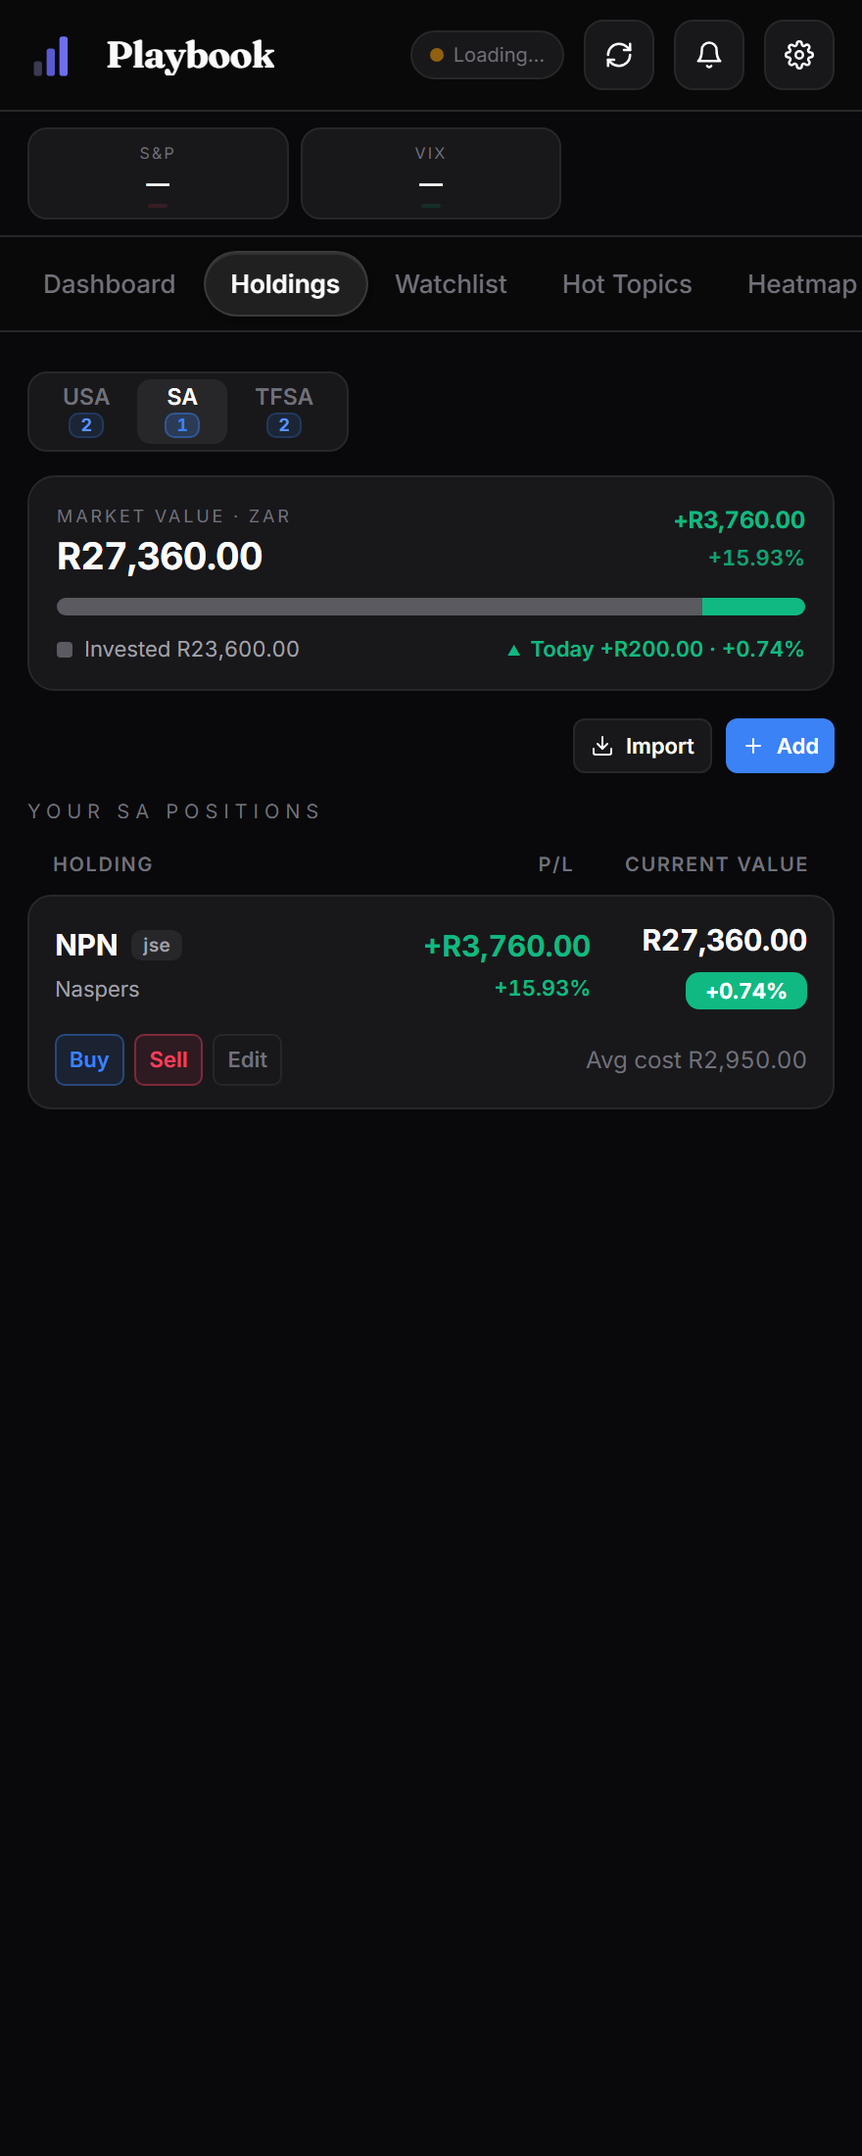
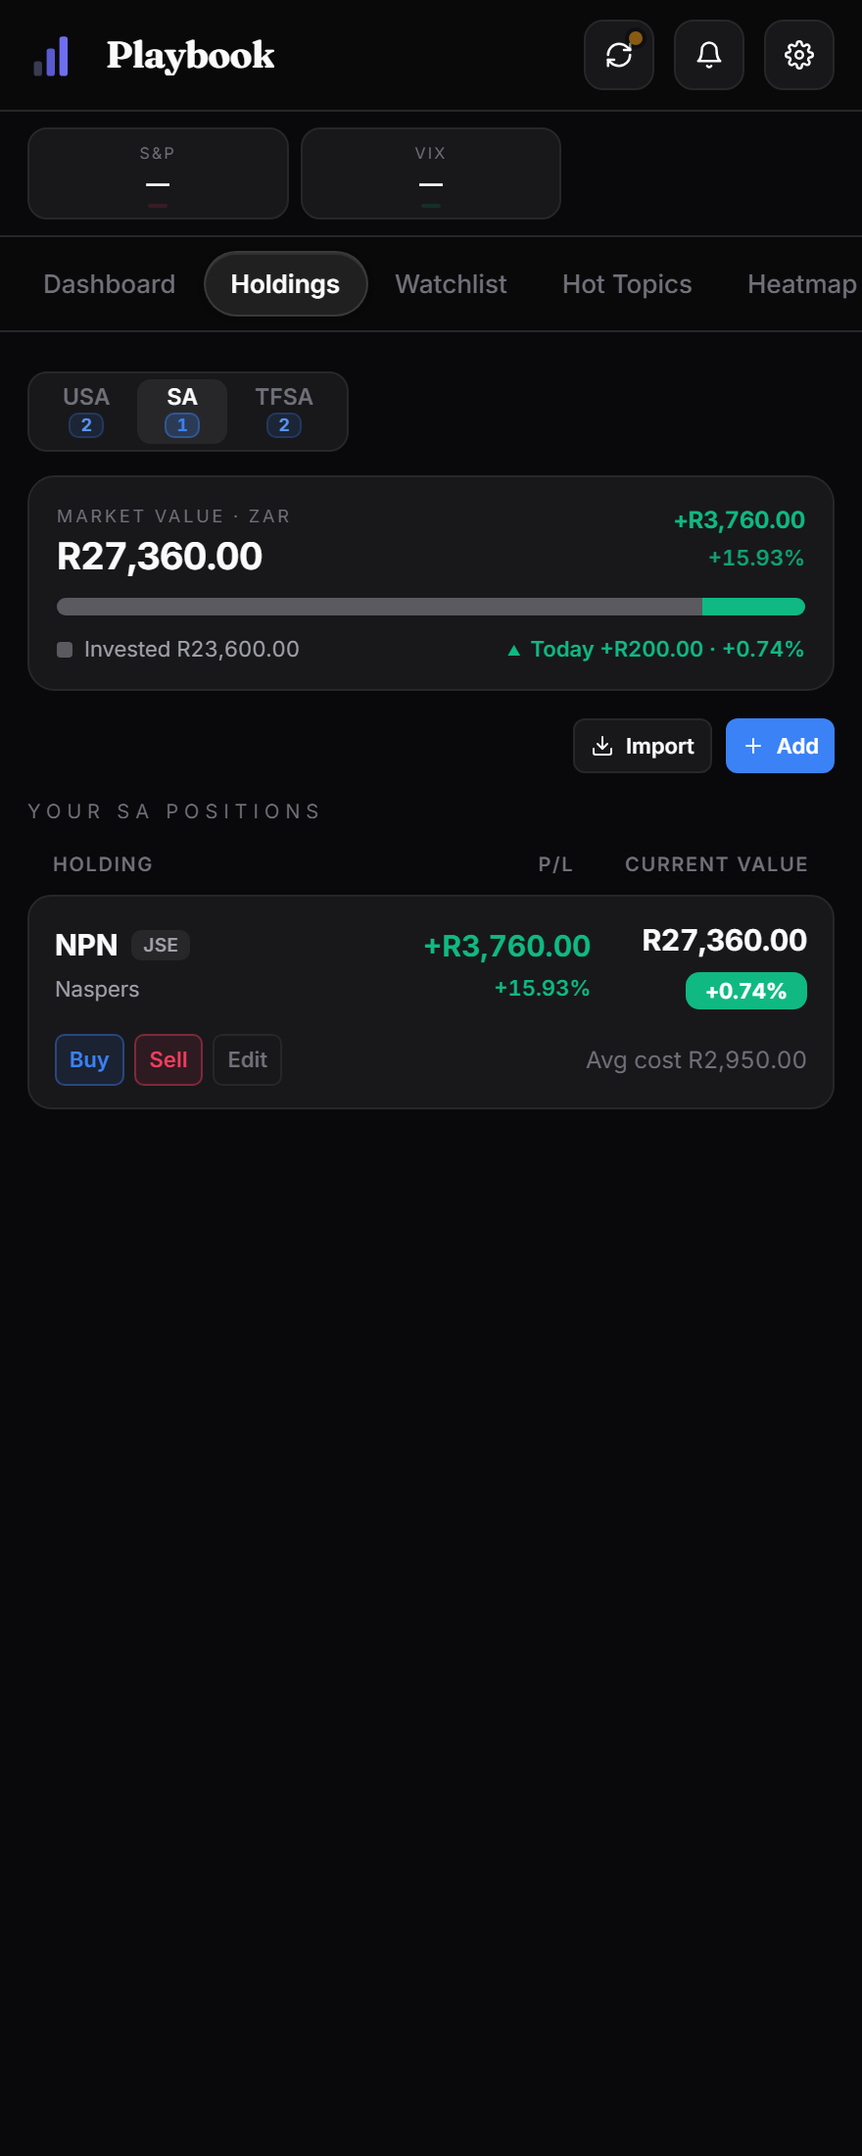
refactor(portfolio): transition portfolio slices to PBStore collections
This commit updates the portfolio management by replacing the use of `usePersistedState` for several slices (`positions`, `contributions`, `transactions`, `tfsaDeposits`) with centralized collections in `PBStore`. The change enhances state management efficiency and maintains existing functionality. Additionally, the service worker cache version is incremented to `v40`, and tests are updated to reflect these changes, ensuring that the new structure is properly validated.

diff --git a/app.js b/app.js
@@ -2181,7 +2181,8 @@ function usePushBackend(pushBackend, setPushBackend, alerts, notifPerm, toast) {
 // purchase-date FX resolution; toast is injected for user-facing feedback.
 // Raw setters are exposed so importData / cloud sync can replace state wholesale.
 function usePortfolio(fxRates, toast) {
-  const [positions, setPositions] = usePersistedState('pb.positions.v2', []);
+  const positions = PBStore.useCollection('positions');
+  const setPositions = useCallback(v => PBStore.setCollection('positions', v), []);
   const watchlist = PBStore.useCollection('watchlist');
   const setWatchlist = useCallback(v => PBStore.setCollection('watchlist', v), []);
   // User-defined watchlists. The built-in "Watchlist" list (id 'default') is
@@ -2193,15 +2194,18 @@ function usePortfolio(fxRates, toast) {
   const setWatchlistGroups = useCallback(v => PBStore.setCollection('watchlistGroups', v), []);
   const alerts = PBStore.useCollection('alerts');
   const setAlerts = useCallback(v => PBStore.setCollection('alerts', v), []);
-  const [contributions, setContributions] = usePersistedState('pb.contributions.v1', []);
-  const [transactions, setTransactions] = usePersistedState('pb.transactions.v1', []);
+  const contributions = PBStore.useCollection('contributions');
+  const setContributions = useCallback(v => PBStore.setCollection('contributions', v), []);
+  const transactions = PBStore.useCollection('transactions');
+  const setTransactions = useCallback(v => PBStore.setCollection('transactions', v), []);
   // TFSA deposit log — drives the annual (R46k) / lifetime (R500k) contribution
   // bars. Two kinds of entry live here: 'manual' (the user logs cash they put in,
   // e.g. a baseline for what they contributed before/outside the app) and
   // 'purchase' (auto-appended below whenever a TFSA holding is bought in-app, so
   // ongoing buys count toward the limits without manual logging). All entries are
   // editable/removable so the user can correct double-counts.
-  const [tfsaDeposits, setTfsaDeposits] = usePersistedState('pb.tfsa.deposits.v1', []);
+  const tfsaDeposits = PBStore.useCollection('tfsaDeposits');
+  const setTfsaDeposits = useCallback(v => PBStore.setCollection('tfsaDeposits', v), []);
   // Background-resolved sectors for holdings the static map can't classify,
   // keyed "MARKET:TICKER" → { sector, industry, at }. Persisted so the dashboard
   // allocation stays accurate across reloads without re-fetching.
@@ -2683,6 +2687,12 @@ const PORTFOLIO_SCHEMA = [
   { name: 'alerts',          key: 'pb.alerts.v2',          default: [] },
   { name: 'sectorCache',     key: 'pb.sectorCache.v1',     default: {} },
   { name: 'sectorWeights',   key: 'pb.sectorWeights.v1',   default: {} },
+  // Money slices (Increment 3b): same mechanism, all four arrays. Mutator bodies
+  // in usePortfolio are unchanged — they call the setter wrappers over setCollection.
+  { name: 'positions',       key: 'pb.positions.v2',       default: [] },
+  { name: 'transactions',    key: 'pb.transactions.v1',    default: [] },
+  { name: 'contributions',   key: 'pb.contributions.v1',   default: [] },
+  { name: 'tfsaDeposits',    key: 'pb.tfsa.deposits.v1',   default: [] },
 ];
 PBStore.configureCollections({ schema: PORTFOLIO_SCHEMA, storage: LS });
 // Dashboard always stays available so the nav can never be emptied entirely.

diff --git a/sw.js b/sw.js
@@ -1,5 +1,5 @@
 // ─── Playbook Service Worker ─────────────────────────────────────────────────
-const CACHE_NAME   = 'playbook-shell-v39';
+const CACHE_NAME   = 'playbook-shell-v40';
 const CDN_CACHE    = 'playbook-cdn-v1';
 
 const SHELL_ASSETS = [

diff --git a/docs/superpowers/plans/2026-06-29-phase-3-increment-3b-money-store.md b/docs/superpowers/plans/2026-06-29-phase-3-increment-3b-money-store.md
@@ -1,0 +1,189 @@
+# Phase 3 Increment 3b — Money portfolio slices → PBStore — Implementation Plan
+
+> **For agentic workers:** REQUIRED SUB-SKILL: Use superpowers:executing-plans (inline; no subagents per Jan's token-saving directive). Steps use checkbox (`- [ ]`) syntax for tracking.
+
+**Goal:** Move the 4 money `usePortfolio` slices (`positions`, `transactions`, `contributions`, `tfsaDeposits`) off `usePersistedState` into the existing `portfolio` collections slice on `PBStore`, behavior-identical — completing the slice migration begun in 3a.
+
+**Architecture:** Reuse the 3a `configureCollections`/`setCollection`/`useCollection` mechanism unchanged. Append 4 entries to `PORTFOLIO_SCHEMA`; replace the 4 slice declarations in `usePortfolio` with `useCollection` reads + `useCallback`-stable setter wrappers. Every mutator body and the startup dedup effect stay unchanged.
+
+**Tech Stack:** Vanilla ES (no build step), React 18 UMD, `useSyncExternalStore`, `node:test`, headless-Chrome verify harnesses.
+
+## Global Constraints
+
+- **No `pb-store.js` change.** The collections mechanism already exists + is unit-tested from 3a. Do not modify it.
+- **Mutator bodies stay byte-for-byte unchanged** — only the 4 slice declarations + 4 schema lines change in `app.js`. No money formula is edited (those live in `pb-core.js`).
+- **Preserve C4 as-is:** `addPosition`'s final `toast(positions.find(...) ? … : …)` keeps reading the pre-update closure. Do NOT "fix" it here.
+- **Persistence byte-identical:** all 4 keys are durable (none in `BACKUP_SKIP`); the injected `LS` adapter keeps each on its own `pb.X.vN` key with the same backup-notify.
+- **This session does NOT commit/push/merge.** Jan does that. Where a step says "leave for Jan," stop short of `git commit`. Run all verifications regardless.
+- **Test runner:** no npm script; `node backend/test/<file>.test.mjs`. app.js ships CRLF; the Edit tool normalizes CRLF so `\n`-based edits match.
+
+---
+
+### Task 1: Update anti-drift guards (RED)
+
+**Files:**
+- Test: `backend/test/store.test.mjs` — modify the 3a guard at "anti-drift: migrated non-money slices…" and replace the "money slices stay usePersistedState (3b out of scope)" guard.
+
+**Interfaces:**
+- Consumes: `appSrc` (the `app.js` source string already read at the top of the file).
+- Produces: guards that fail until Task 2 migrates the 4 money slices.
+
+- [ ] **Step 1: Broaden the "migrated" guard + replace the out-of-scope guard**
+
+In `backend/test/store.test.mjs`, change the migrated-slices guard to include the 4 money keys:
+
+```js
+test('anti-drift: migrated portfolio slices no longer use usePersistedState', () => {
+  for (const k of ['pb.watchlist.v2','pb.watchlistGroups.v1','pb.alerts.v2',
+    'pb.sectorCache.v1','pb.sectorWeights.v1',
+    'pb.positions.v2','pb.transactions.v1','pb.contributions.v1','pb.tfsa.deposits.v1']) {
+    const re = new RegExp("usePersistedState\\('" + k.replace(/\./g, '\\.') + "'");
+    assert.ok(!re.test(appSrc), `${k} should be migrated off usePersistedState into PBStore`);
+  }
+});
+```
+
+Replace the entire `test('anti-drift: money slices stay usePersistedState (3b out of scope)', …)` block with a schema-membership guard:
+
+```js
+test('anti-drift: money slices are registered in PORTFOLIO_SCHEMA', () => {
+  for (const k of ['pb.positions.v2','pb.transactions.v1','pb.contributions.v1','pb.tfsa.deposits.v1']) {
+    const re = new RegExp("key:\\s*'" + k.replace(/\./g, '\\.') + "'");
+    assert.ok(re.test(appSrc), `${k} must be a PORTFOLIO_SCHEMA entry after 3b`);
+  }
+});
+```
+
+(The `pb.fxRates.v1`-stays-usePersistedState guard is left as-is — fxRates remains out of scope.)
+
+- [ ] **Step 2: Run to verify the migrated guard fails**
+
+Run: `node backend/test/store.test.mjs 2>&1 | grep -E "migrated portfolio|registered in PORTFOLIO"`
+Expected: `✖ anti-drift: migrated portfolio slices no longer use usePersistedState` (the 4 money keys still match `usePersistedState`); the schema-membership guard also FAILS (keys not yet in `PORTFOLIO_SCHEMA`).
+
+---
+
+### Task 2: Migrate the 4 money slices + schema + SW bump (GREEN)
+
+**Files:**
+- Modify: `app.js` — money slice decls (`2184`, `2196`, `2197`, `2204`); `PORTFOLIO_SCHEMA` (append 4 entries after the 3a entries)
+- Modify: `sw.js` (cache version bump)
+- Test: `backend/test/store.test.mjs` (guards from Task 1); money node suites; browser smokes
+
+**Interfaces:**
+- Consumes: `PBStore.useCollection`, `PBStore.setCollection`, `PORTFOLIO_SCHEMA` (all from 3a).
+- Produces: `usePortfolio` returns the same names (`positions`/`setPositions`/`transactions`/`setTransactions`/`contributions`/`setContributions`/`tfsaDeposits`/`setTfsaDeposits` + all mutators), now store-backed. No consumer signature changes.
+
+- [ ] **Step 1: Migrate the 4 declarations in `usePortfolio`**
+
+In `app.js`, replace line 2184:
+```js
+  const [positions, setPositions] = usePersistedState('pb.positions.v2', []);
+```
+with:
+```js
+  const positions = PBStore.useCollection('positions');
+  const setPositions = useCallback(v => PBStore.setCollection('positions', v), []);
+```
+
+Replace line 2196 (keep the preceding comment block intact):
+```js
+  const [contributions, setContributions] = usePersistedState('pb.contributions.v1', []);
+```
+with:
+```js
+  const contributions = PBStore.useCollection('contributions');
+  const setContributions = useCallback(v => PBStore.setCollection('contributions', v), []);
+```
+
+Replace line 2197:
+```js
+  const [transactions, setTransactions] = usePersistedState('pb.transactions.v1', []);
+```
+with:
+```js
+  const transactions = PBStore.useCollection('transactions');
+  const setTransactions = useCallback(v => PBStore.setCollection('transactions', v), []);
+```
+
+Replace line 2204 (keep the preceding comment block intact):
+```js
+  const [tfsaDeposits, setTfsaDeposits] = usePersistedState('pb.tfsa.deposits.v1', []);
+```
+with:
+```js
+  const tfsaDeposits = PBStore.useCollection('tfsaDeposits');
+  const setTfsaDeposits = useCallback(v => PBStore.setCollection('tfsaDeposits', v), []);
+```
+
+Leave every mutator body (`addPosition`, `importPositions`, `sellPosition`, `updatePosition`, `removePosition(s)`, `addContribution`, `removeContribution`, `importContributions`, `addTfsaDeposit`, `updateTfsaDeposit`, `removeTfsaDeposit(s)`) and the startup dedup `useEffect` UNCHANGED — they call these wrappers.
+
+- [ ] **Step 2: Append the 4 money entries to `PORTFOLIO_SCHEMA`**
+
+In `app.js`, in the `PORTFOLIO_SCHEMA` array (added in 3a, just after `PBStore.configureSettings(...)`), add the 4 money entries after the `sectorWeights` line, before the closing `];`:
+
+```js
+  { name: 'positions',     key: 'pb.positions.v2',     default: [] },
+  { name: 'transactions',  key: 'pb.transactions.v1',  default: [] },
+  { name: 'contributions', key: 'pb.contributions.v1', default: [] },
+  { name: 'tfsaDeposits',  key: 'pb.tfsa.deposits.v1', default: [] },
+```
+
+- [ ] **Step 3: Verify app.js parses + anti-drift guards pass**
+
+Run: `node --check app.js`
+Expected: no output.
+
+Run: `node backend/test/store.test.mjs 2>&1 | grep -E "migrated portfolio|registered in PORTFOLIO|tests |pass |fail "`
+Expected: both guards PASS; `fail 0`.
+
+- [ ] **Step 4: Run the money correctness gate + full node suite**
+
+Run the money suites explicitly:
+`node backend/test/money-math.test.mjs && node backend/test/cost-basis.test.mjs && node backend/test/import-matching.test.mjs && node backend/test/ee-ocr-parse.test.mjs`
+Expected: all PASS unchanged (no formula changed).
+
+Run the full suite:
+`for f in backend/test/*.test.mjs; do node "$f" >/dev/null 2>&1 && echo "PASS $(basename $f)" || echo "FAIL $(basename $f)"; done`
+Expected: every suite PASS, no `FAIL` lines.
+
+- [ ] **Step 5: Bump the SW cache version**
+
+In `sw.js`, change `playbook-shell-v39` → `playbook-shell-v40` (single occurrence).
+Run: `node --check sw.js`
+Expected: no output.
+
+- [ ] **Step 6: Browser smoke — required gate**
+
+Run: `node backend/test/verify-refresh-behavior.mjs`
+Expected: app MOUNTS (no `useCollection` ReferenceError); the "Today" pill renders and positions are fetched first — i.e. the seeded `pb.positions.v2` flows through `configureCollections` → `useCollection`. The standing "holdings rows deliberately have NO session badge" assertion holds. ALL PASSED.
+
+Run a holdings-seeding harness for extra coverage (rerun once if it hits the flaky CDP "Execution context destroyed" race):
+`node backend/test/verify-holdings-redesign.mjs` (or `verify-goal-holdings.mjs`)
+Expected: app MOUNTS and renders holdings from the seeded positions.
+
+If `verify-refresh-behavior` fails to MOUNT, that's a real wiring regression — debug before proceeding (node suites can't catch a browser-only ReferenceError).
+
+- [ ] **Step 7: Leave staged for Jan (do not commit)**
+
+Report: 3b done. List green money suites + full-suite result + browser-smoke results. Note `sw.js` v39→v40. Changes + new spec/plan left uncommitted for Jan.
+
+---
+
+## Self-Review (completed by plan author)
+
+**Spec coverage:**
+- 4 money slices migrated → Task 2 Steps 1-2. ✅
+- Mechanism reused unchanged (no pb-store.js edit) → Global Constraints; no task touches pb-store.js. ✅
+- Mutator bodies + dedup effect unchanged; C4 preserved → Task 2 Step 1 (only decls change) + Global Constraints. ✅
+- Schema seeds all via existing configure call → Task 2 Step 2 (no new configure call). ✅
+- Anti-drift guards (money keys off usePersistedState; money keys in PORTFOLIO_SCHEMA) → Task 1. ✅
+- Money correctness gate (money-math/cost-basis/import-matching/ee-ocr) → Task 2 Step 4. ✅
+- Persistence byte-identical via LS → Global Constraints + schema uses existing `storage: LS`. ✅
+- SW v39→v40 → Task 2 Step 5. ✅
+- Browser smoke required gate → Task 2 Step 6. ✅
+- No commit (Jan's) → Global Constraints + Task 2 Step 7. ✅
+
+**Placeholder scan:** none — every step has concrete code/commands. ✅
+
+**Type/name consistency:** slice names (`positions`/`transactions`/`contributions`/`tfsaDeposits`) + keys identical across Task 1 guards, Task 2 wiring, and the schema. `useCollection`/`setCollection`/`PORTFOLIO_SCHEMA` match the 3a-defined API. ✅

diff --git a/docs/superpowers/specs/2026-06-29-phase-3-increment-3b-money-store-design.md b/docs/superpowers/specs/2026-06-29-phase-3-increment-3b-money-store-design.md
@@ -1,0 +1,135 @@
+# Phase 3, Increment 3b — Money portfolio slices → PBStore
+
+**Date:** 2026-06-29
+**Branch:** `refactor/phase-3-increment-3b-money-store` (off 3a commit `8873741`, itself off main `212d32f`)
+**Companion:** [playbook-refactor-priorities] Phase 3; completes the "portfolio slices" plan item begun in Increment 3a.
+
+## Goal
+
+Migrate the **4 money** slices owned by `usePortfolio` (`app.js` ~2184–2204) off per-key
+`usePersistedState` into the existing `portfolio` collections slice on `PBStore`, using the
+**identical mechanism and pattern proven in Increment 3a**: `useCollection` reads + `useCallback`
+-stable setter wrappers over `setCollection`, with **every mutator body left unchanged**. This
+completes the slice-migration half of "portfolio slices + mutator→action"; the mechanism
+(`configureCollections`/`getCollection`/`setCollection`/`useCollection`) already exists from 3a
+and is **not** modified.
+
+Like 3a, these slices change only on user action (buy/sell/import/log), not per-tick, so the
+value is **structural** (single source of truth in the store; completes the `usePortfolio`
+de-React-stating), not per-tick throughput.
+
+## Scope
+
+**Migrated (4 money slices):**
+| slice | localStorage key | shape | backed up? |
+|---|---|---|---|
+| `positions` | `pb.positions.v2` | array | yes |
+| `contributions` | `pb.contributions.v1` | array | yes |
+| `transactions` | `pb.transactions.v1` | array | yes |
+| `tfsaDeposits` | `pb.tfsa.deposits.v1` | array | yes |
+
+Added to the existing `PORTFOLIO_SCHEMA` (4 new entries) so `configureCollections` seeds them
+from `LS` alongside the 3a slices.
+
+**Mutators re-pointed at the store, bodies unchanged** (still take `toast`/`fxRates`/
+`fetchHistoricalFx` exactly as today): `addPosition`, `importPositions`, `sellPosition`,
+`updatePosition`, `removePosition`, `removePositions`, `addContribution`, `removeContribution`,
+`importContributions`, `addTfsaDeposit`, `updateTfsaDeposit`, `removeTfsaDeposit`,
+`removeTfsaDeposits`. Plus the **startup dedup `useEffect`** (~2226, merges duplicate positions
+via `mergeCostBasis`) — its `setPositions(prev => …)` now writes the store via the wrapper; the
+effect body is otherwise unchanged.
+
+**Explicitly preserved (NOT fixed here):**
+- **C4 stale-closure** in `addPosition`'s final `toast(positions.find(...) ? … : …)` (~2305) —
+  reads the pre-update `positions` closure. Behavior-preserving refactor: keep it as-is.
+- Money math itself (`mergeCostBasis`, `convertCcy`, `positionCostCcy`, `resolvePositionUpdates`,
+  the FX-at-cost logic) — already pure in `pb-core.js`; untouched. No formula is edited.
+
+**Out of scope (later increments):** removing `toast` from the data layer; `fxRates` relocation;
+the prop-drilling/self-subscription sweep + broader `React.memo`.
+
+## Why this is low-risk despite being "money code"
+
+- **The mechanism is unchanged** — `setCollection` (value-or-updater, write-through, selector-
+  stable) was built + unit-tested + browser-verified in 3a. 3b only adds 4 schema entries and
+  flips 4 declarations.
+- **Mutator bodies are byte-for-byte unchanged** — they keep closing over the reactive hook
+  variables and call the setter wrappers, which already accept the `prev => next` updaters every
+  money mutator uses. The diff is the 4 declarations + 4 schema lines + sw bump.
+- **The money formulas live in `pb-core.js`** and are not touched; this increment changes only
+  where the resulting arrays are stored.
+
+## Multiple store writes per mutator (considered, fine)
+
+`addPosition` writes `positions` then `transactions` then (TFSA) `tfsaDeposits`; `importPositions`
+writes `positions`, `transactions`, optionally `tfsaDeposits`, optionally `sectorCache`. After 3b
+these are all `setCollection` calls, i.e. 2–3 sequential store notifications per user action
+instead of one batched React update. This is:
+- **Correct** — each `setCollection` fully updates `getState` before the next; reads are
+  consistent; no tearing.
+- **Negligible perf** — user-action frequency, not per-tick; identical in spirit to Increment 1's
+  `mergePrices` (called ~13×/sweep) which already proved many sequential store writes are fine.
+
+## Architecture / data-flow changes in `app.js`
+
+### Startup schema
+Append 4 entries to `PORTFOLIO_SCHEMA` (the array added in 3a, just after the `configureSettings`
+call):
+```js
+  { name: 'positions',     key: 'pb.positions.v2',     default: [] },
+  { name: 'transactions',  key: 'pb.transactions.v1',  default: [] },
+  { name: 'contributions', key: 'pb.contributions.v1', default: [] },
+  { name: 'tfsaDeposits',  key: 'pb.tfsa.deposits.v1', default: [] },
+```
+The existing `PBStore.configureCollections({ schema: PORTFOLIO_SCHEMA, storage: LS })` call then
+seeds all 9 slices. No new `configure*` call.
+
+### `usePortfolio` declarations (mirror 3a exactly)
+Replace each of the 4 `const [x, setX] = usePersistedState('pb.X', [])` with:
+```js
+  const x = PBStore.useCollection('x');
+  const setX = useCallback(v => PBStore.setCollection('x', v), []);
+```
+for `positions`/`setPositions`, `contributions`/`setContributions`, `transactions`/
+`setTransactions`, `tfsaDeposits`/`setTfsaDeposits`. The explanatory comment blocks above
+`contributions`/`tfsaDeposits` are preserved. All mutator bodies + the dedup effect are unchanged
+(they call the wrappers).
+
+### Consumers
+`App()` continues to read `positions`/`transactions`/`contributions`/`tfsaDeposits` via the
+`usePortfolio` return (now `useCollection`-backed) and prop-drills them exactly as today —
+unchanged. The self-healing sector-fill effect, `buildFetchPlan` (positions = fast tier), the
+dashboard/TFSA value math, etc. all keep their current prop/closure wiring. (`setSectorCache`,
+already a 3a wrapper, is unchanged.)
+
+## Persistence model
+Identical to 3a: the injected `LS` adapter keeps each slice on its own `pb.X.vN` key with the
+same `LS.set` write + cloud-backup-notify. All 4 money keys are durable (none in `BACKUP_SKIP`),
+so each write still fires the backup notifier exactly as `usePersistedState` did. Seed-on-read,
+no eager default write-back (inc-2/3a-consistent).
+
+## Testing
+
+- **Node — the money correctness gate (must stay green):**
+  `node backend/test/money-math.test.mjs`, `node backend/test/cost-basis.test.mjs`,
+  `node backend/test/import-matching.test.mjs`, `node backend/test/ee-ocr-parse.test.mjs`, plus
+  the full suite. These pin the cost-basis/FX/import math; since no formula changes, they must
+  remain green unchanged.
+- **`store.test.mjs` anti-drift (extend the existing 3a guards):** add the 4 money keys to the
+  "migrated … no longer use usePersistedState" assertion; **delete** the now-obsolete
+  "money slices stay usePersistedState (3b out of scope)" guard from 3a and replace it with a
+  guard that the 4 money keys appear in `PORTFOLIO_SCHEMA`. Keep the `pb.fxRates.v1`-stays guard.
+- **Browser smoke (required gate):** `verify-refresh-behavior.mjs` — seeds `pb.positions.v2`,
+  asserts the portfolio "Today" pill renders and positions are fetched first; this exercises the
+  positions slice end-to-end through the store. Plus a holdings-oriented harness if one seeds
+  positions (`verify-holdings-redesign.mjs` / `verify-goal-holdings.mjs`) — app must MOUNT and
+  render holdings from the seeded store. (Known flaky CDP "Execution context destroyed" race on
+  the screenshot harnesses — rerun once; refresh-behavior is the reliable gate.)
+
+## Rollout / housekeeping
+- `sw.js`: bump cache version **v39 → v40**.
+- No new file → no `index.html`/`static.yml`/precache change.
+- No worker/wrangler impact.
+- **Commits/merge are Jan's** — build + verify on the branch, stop short of commit/push/merge.
+- Flow: spec→plan→executing-plans (inline, no subagents — token-saving); browser smoke is a
+  required gate before declaring done.
